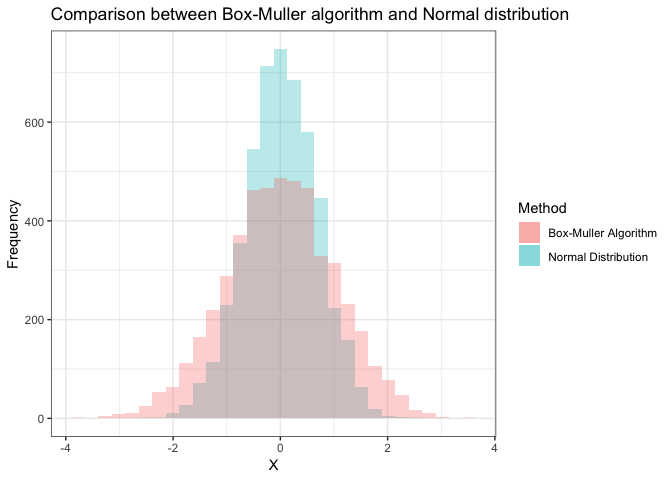
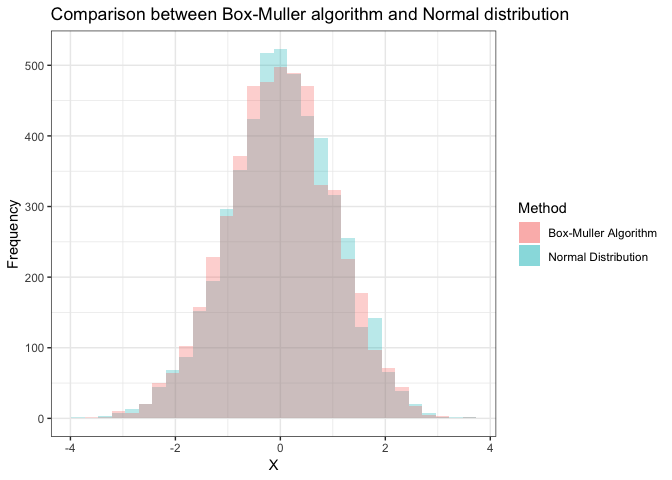
Initial commit

diff --git a/Assignment11_Lab11.md b/Assignment11_Lab11.md
@@ -50,12 +50,12 @@ microbenchmark(rbinom(n = 100, size = 100, p = 0.25),
 ```
 
     ## Unit: microseconds
-    ##                                   expr     min      lq      mean  median
-    ##  rbinom(n = 100, size = 100, p = 0.25)   9.012   9.864  12.04889  11.094
-    ##      q1(n = 100, size = 100, p = 0.25) 629.118 721.588 956.54732 732.653
-    ##        uq      max neval
-    ##   11.9945    60.48   100
-    ##  772.1270 19576.61   100
+    ##                                   expr     min       lq      mean   median
+    ##  rbinom(n = 100, size = 100, p = 0.25)   8.995   9.8355  20.59334  11.0855
+    ##      q1(n = 100, size = 100, p = 0.25) 658.094 735.5555 980.40407 748.6125
+    ##       uq       max neval
+    ##   12.401   890.699   100
+    ##  800.322 20174.177   100
 
 <br>
 
@@ -75,11 +75,13 @@ set.seed(1)
 
 x <- runif(50, 20, 40)
 y <- 15 + 0.4 * x + rnorm(50, 0, 3)
-df <- data.frame(x, y)
-mod <- lm(y ~ x, data = df)
+data.xy <- data.frame(x, y)
+lrm <- lm(y ~ x, data = data.xy)
+data.xy$prd <- predict(lrm)
+data.xy$res <- residuals(lrm)
 
 # using ggplot function
-ggplot(mod, aes(.fitted, .resid)) + 
+ggplot(lrm, aes(.fitted, .resid)) + 
     geom_point() + 
     stat_smooth(method = "auto", se = F, col = 'red') + 
     geom_hline(yintercept = 0, linetype = "dashed") + 
@@ -93,6 +95,18 @@ ggplot(mod, aes(.fitted, .resid)) +
     ## `geom_smooth()` using method = 'loess' and formula 'y ~ x'
 
 ![](Assignment11_Lab11_files/figure-markdown_github/unnamed-chunk-3-1.png)
+
+``` r
+ggplot(data.xy, aes(x,y)) +
+    geom_smooth(method = "lm", color = 4) +
+    geom_segment(aes(xend = x, yend = prd, alpha = 0.3)) +
+    geom_point(aes(color = res)) +
+    scale_color_gradient2(low = 4, mid = 3, high = 2) +
+    geom_point(aes(y = prd), shape = 19, col = 1, lwd = 1) +
+    theme_bw()
+```
+
+![](Assignment11_Lab11_files/figure-markdown_github/unnamed-chunk-3-2.png)
 
 <br>
 
@@ -113,7 +127,7 @@ newrnorm <- function(n) {
     u2 <- runif(n/2, 0, 1)
     
     theta <- 2 * pi * u2
-    R <- sqrt(-2 * log10(u1))
+    R <- sqrt(-2 * log(u1))
     
     x <- R * cos(theta)
     y <- R * sin(theta)
